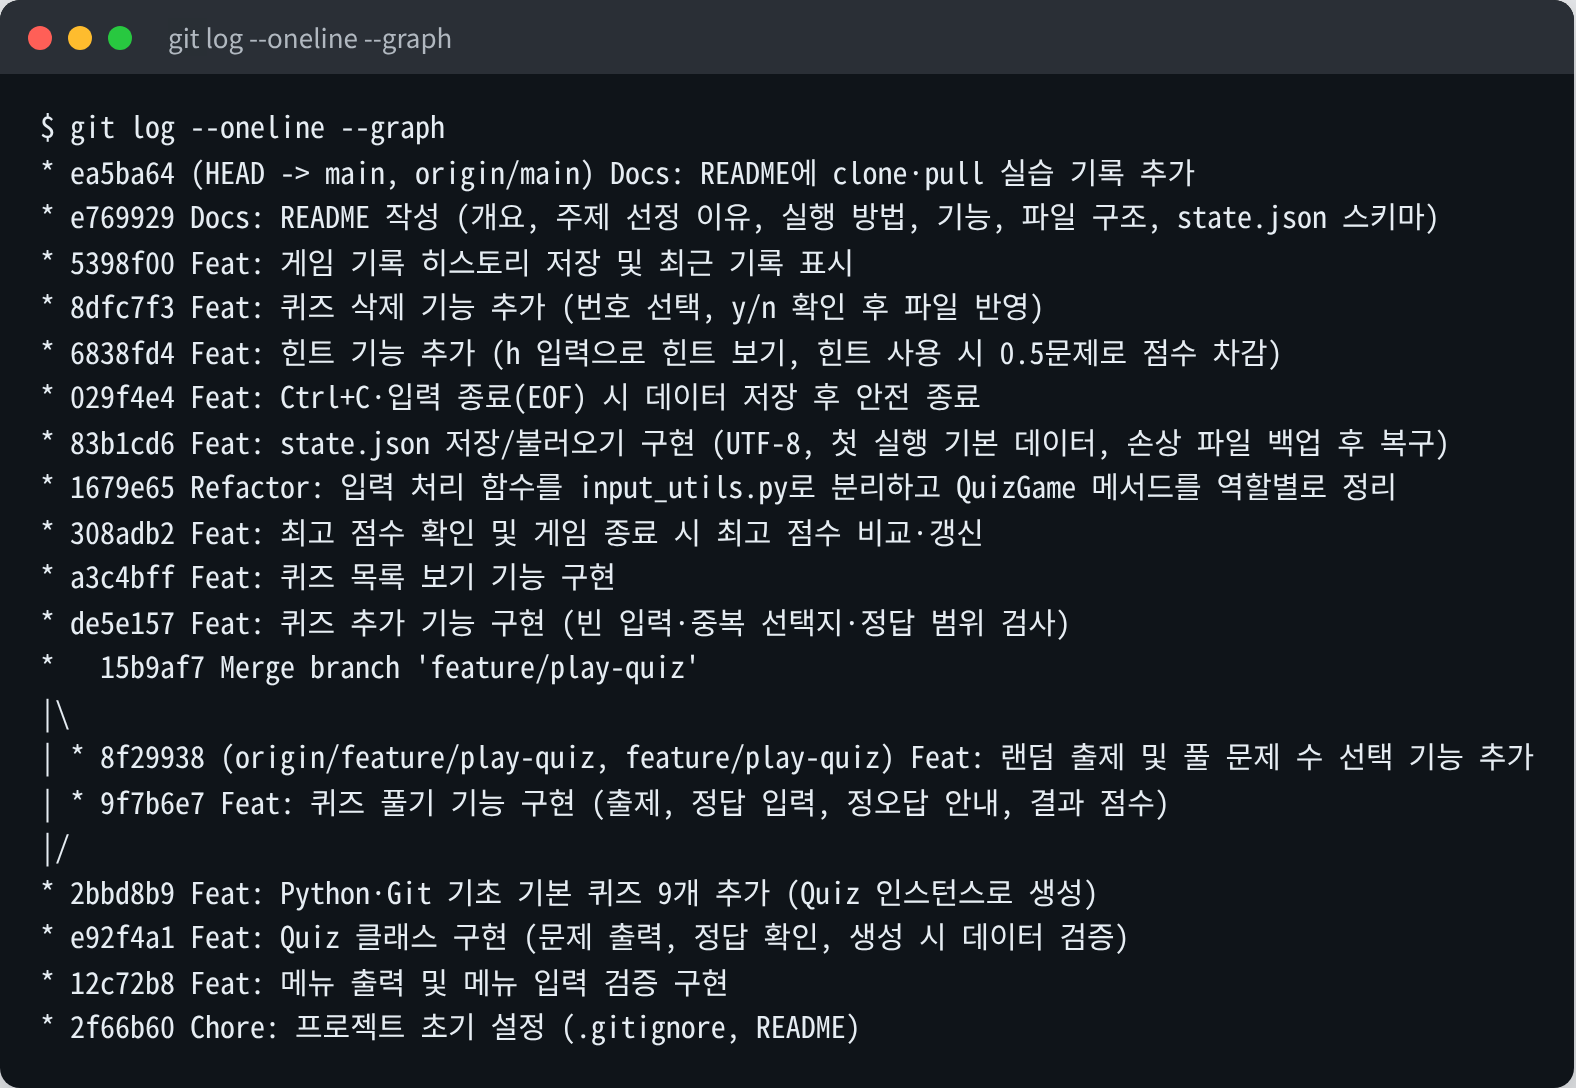
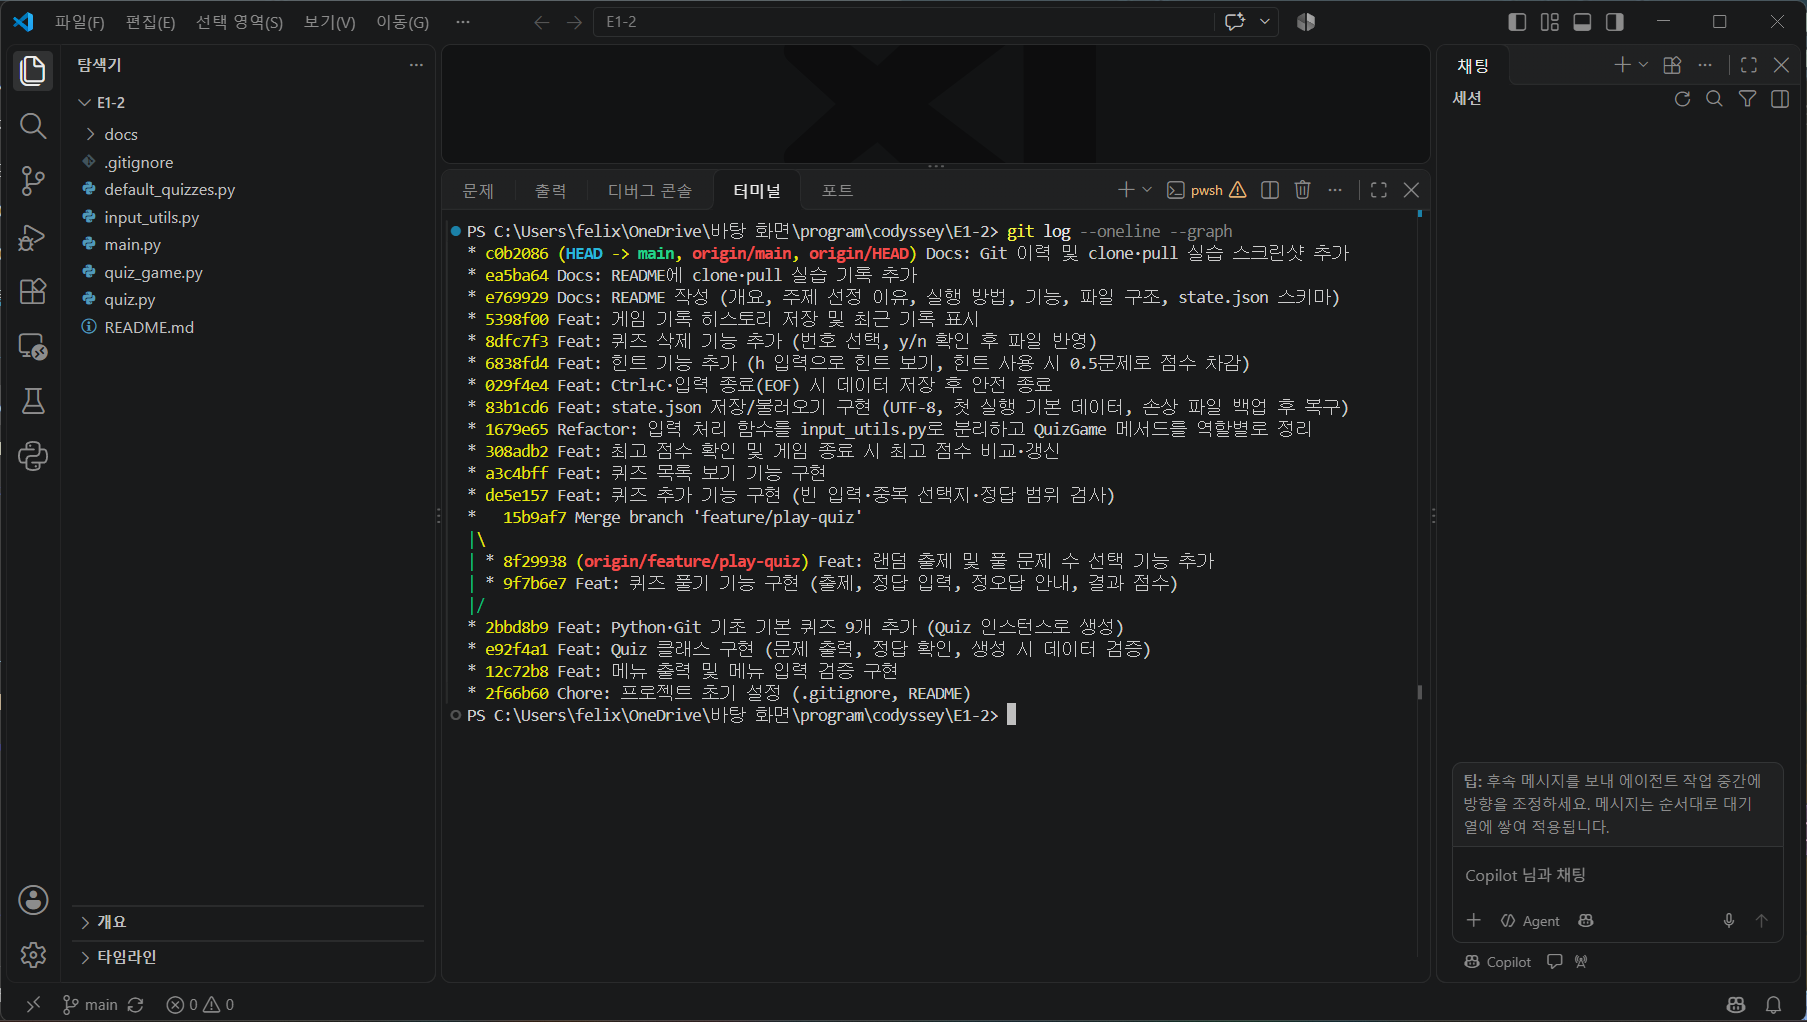
Docs: 개발 환경 스크린샷 추가 및 git log 화면을 개발 PC 캡처로 교체
Claude-Session: https://claude.ai/code/session_017zrGre4hUgQbfkA2f8pYwJ

diff --git a/README.md b/README.md
@@ -139,10 +139,13 @@ python main.py        # macOS/Linux에서는 python3 main.py
 
 | 항목 | 내용 |
 | --- | --- |
-| Python | 3.10 이상 (3.8 · 3.10 · 3.13에서 실행 확인) |
+| Python | 3.10 이상 (개발 PC: 3.10.6 / 실행 확인: 3.8 · 3.10 · 3.13) |
+| Git | 2.56.1 (Git for Windows) |
 | 라이브러리 | 표준 라이브러리만 사용 (`json`, `os`, `random`, `datetime`, `pathlib`, `sys`) |
 | OS | Windows · macOS · Linux 터미널 (Windows Git Bash처럼 출력 인코딩이 cp949인 환경도 지원) |
 | 에디터 | VSCode |
+
+![개발 환경: VSCode 터미널에서 Python·Git 버전과 git 설정 확인](docs/screenshots/dev_env.png)
 
 ## 실행 화면
 
